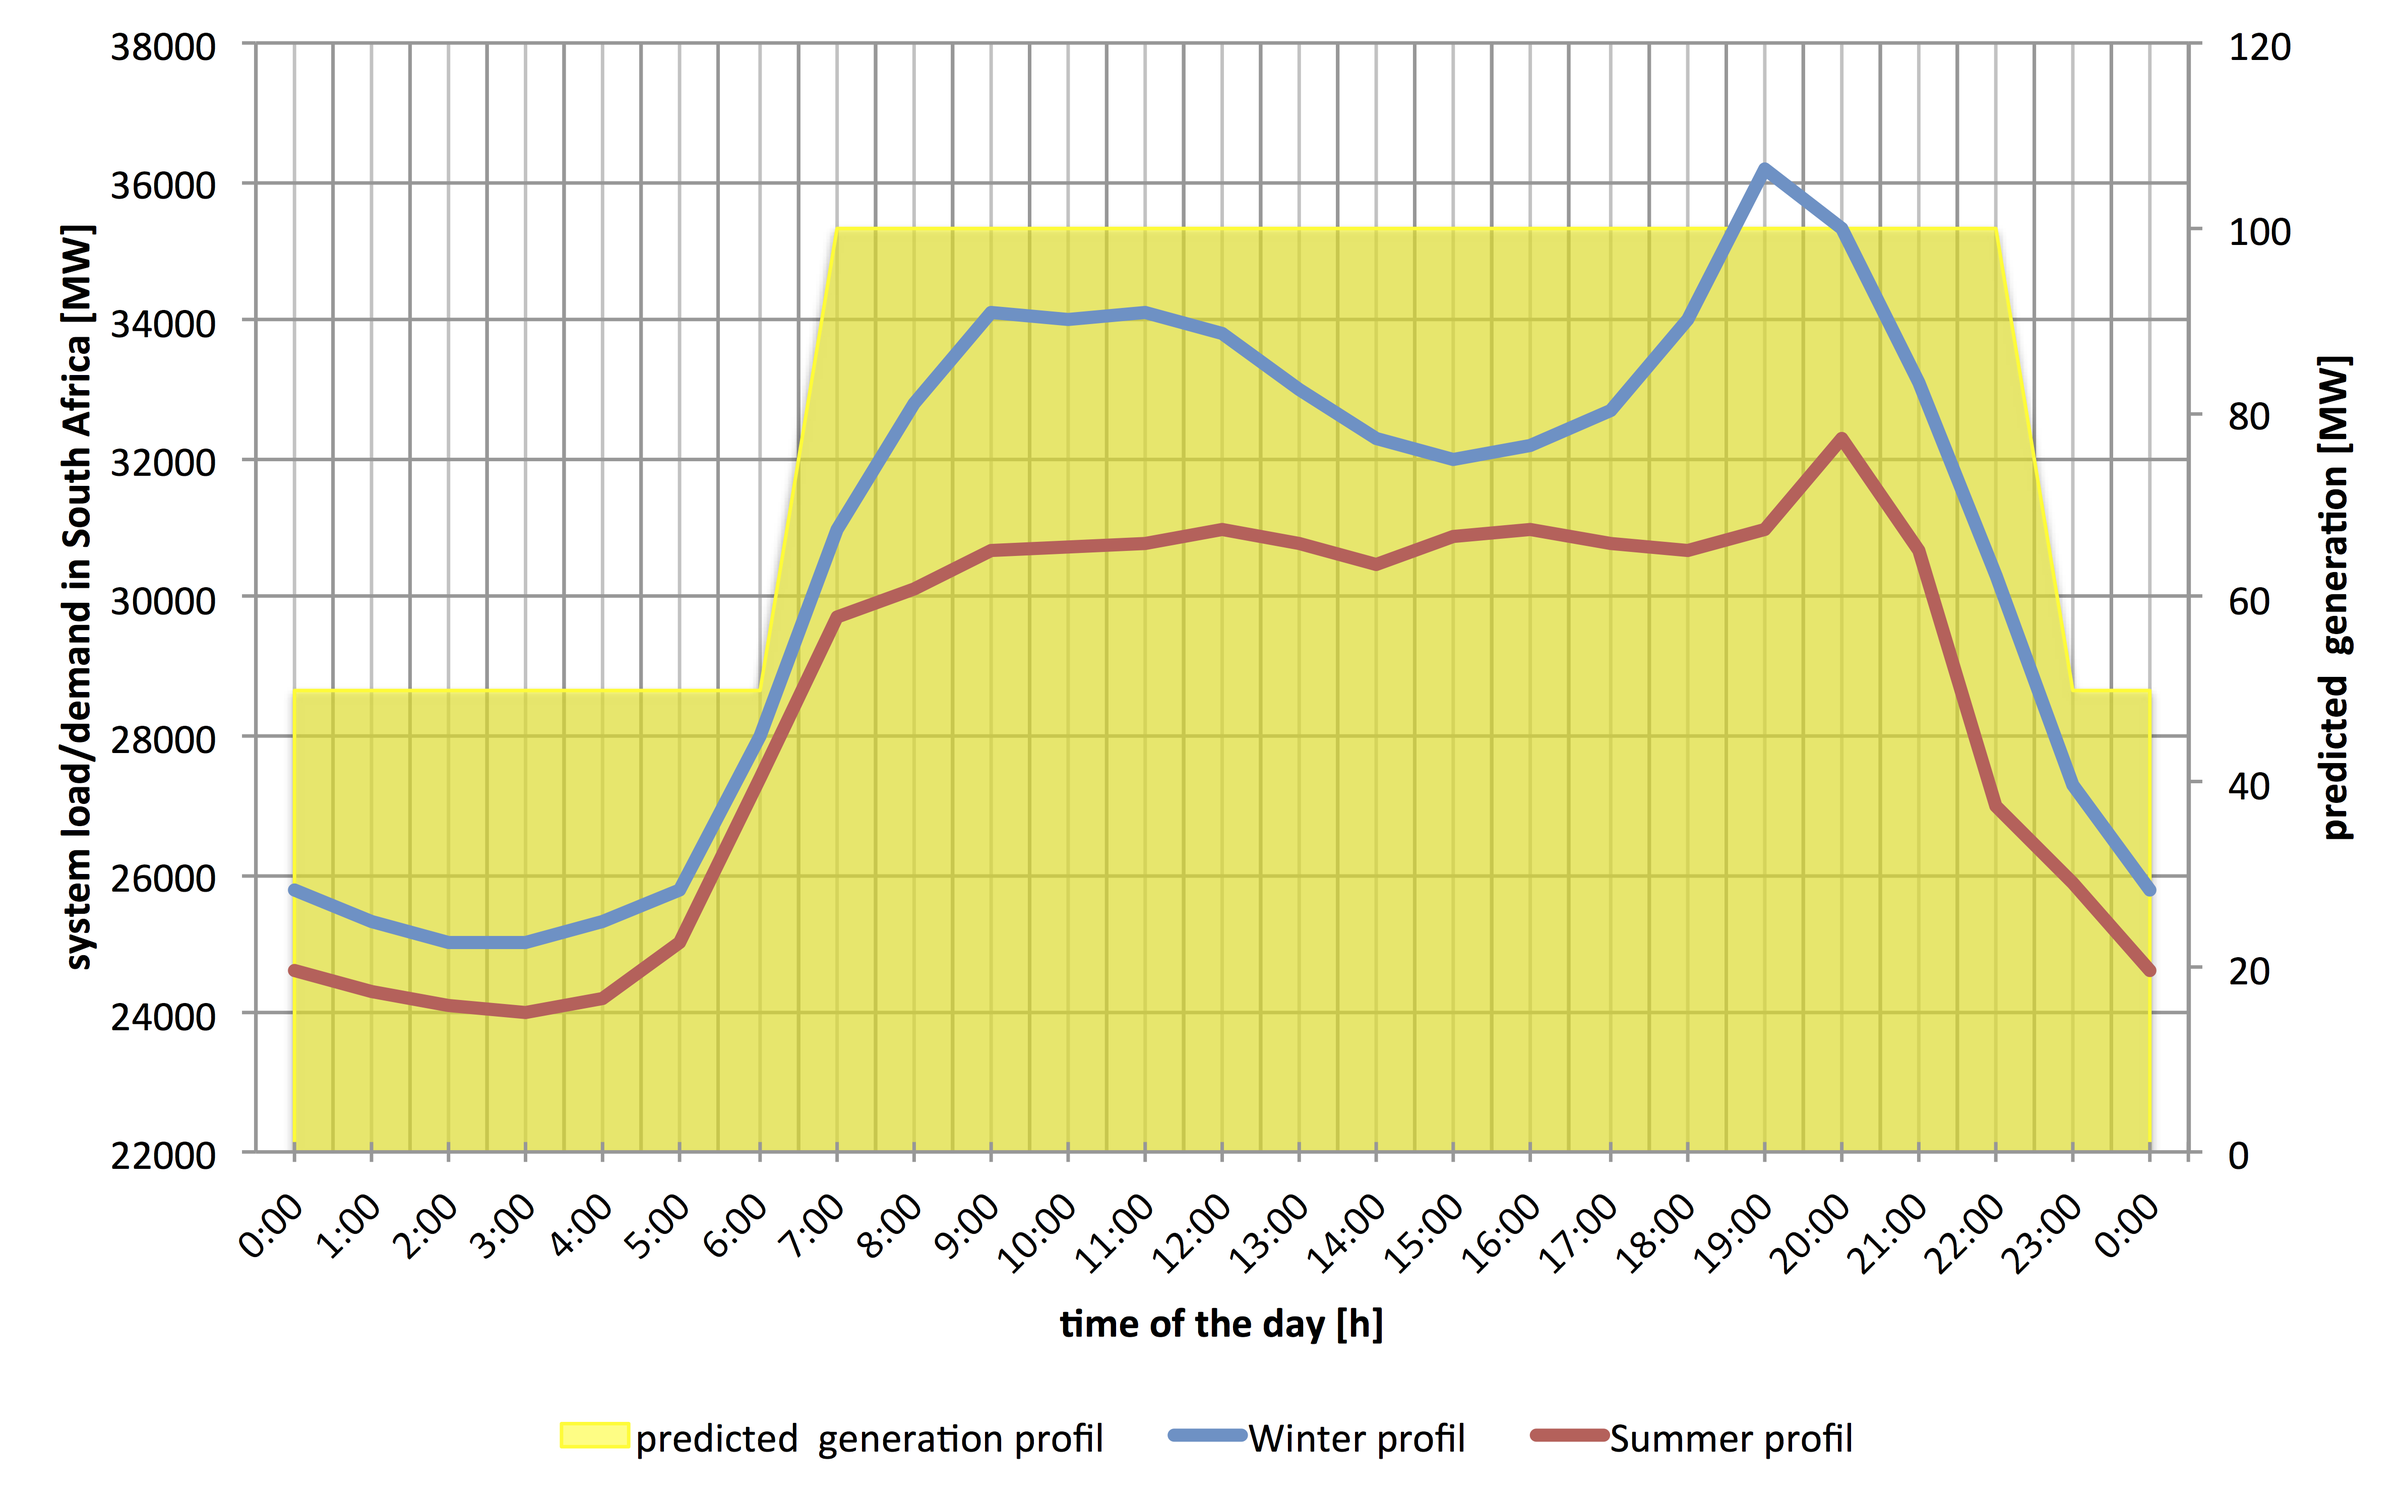
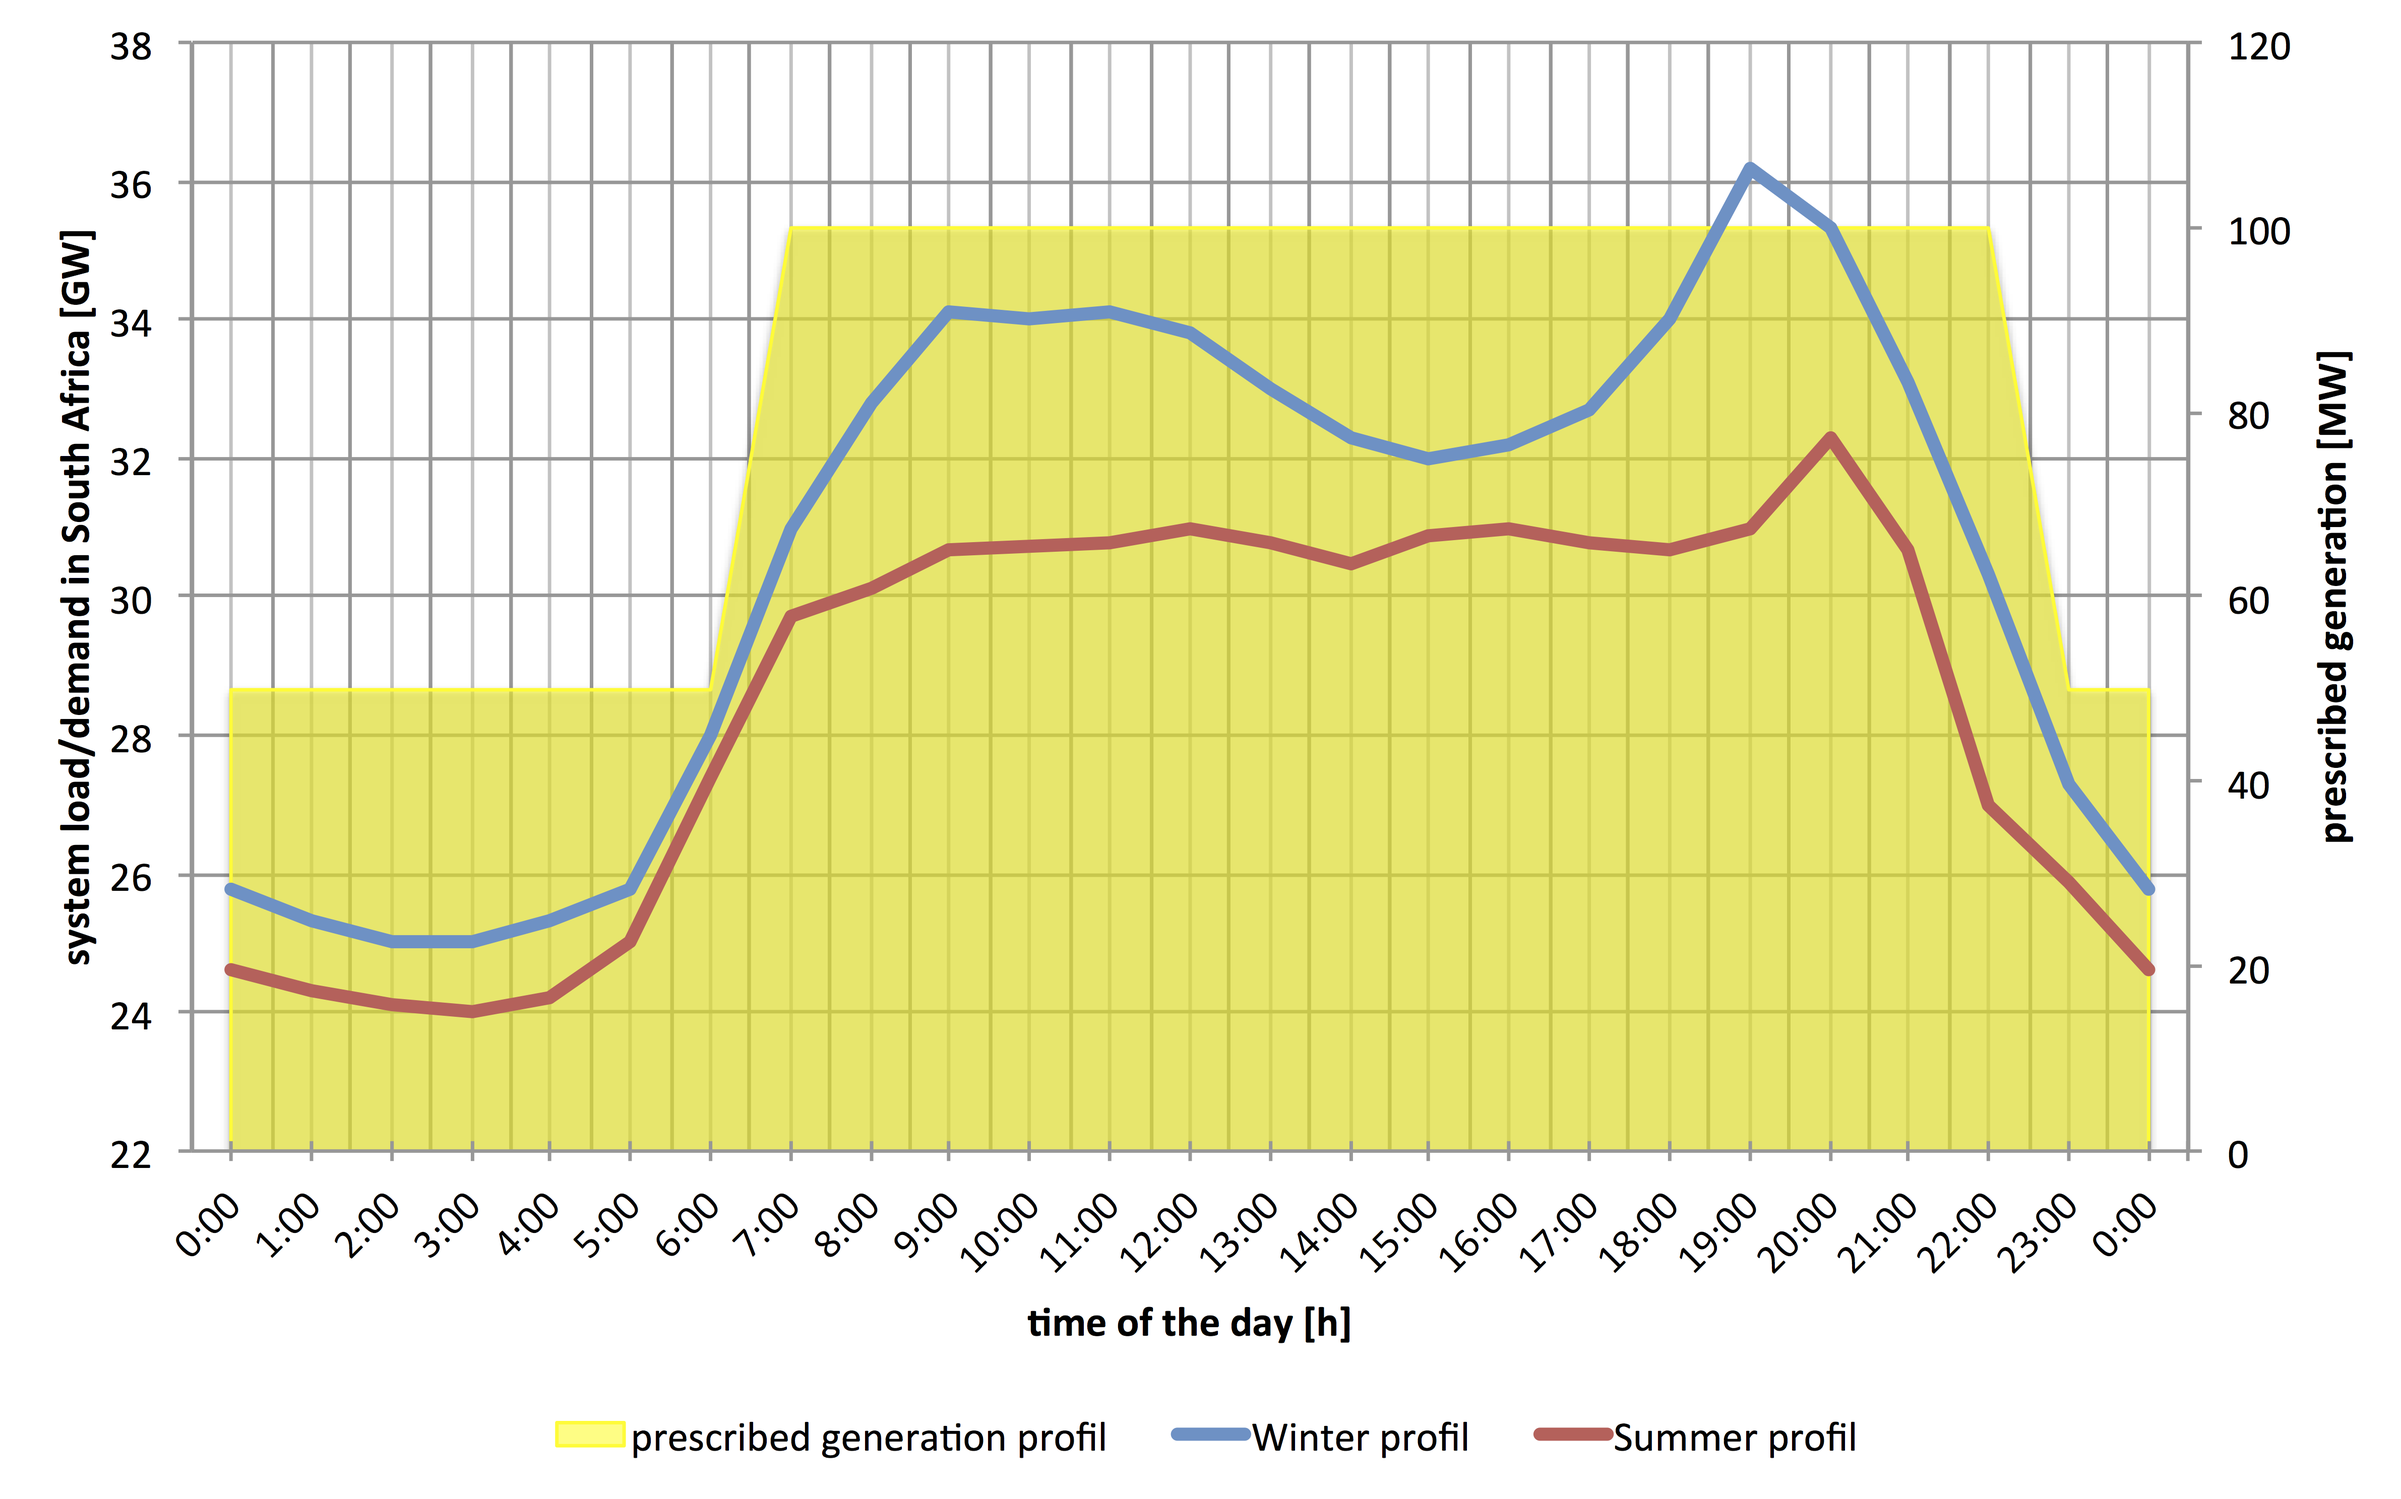
Chapter solar energy in SA abgeschlossen

diff --git a/solar_power_in_sa.tex b/solar_power_in_sa.tex
@@ -110,7 +110,7 @@ Most of the South African PV-power plants are allocated in the Northern Cape. So
 
 "KaXu Solar One" is the first and currently only full operational CSP plant in SA. It is using parabolic trough technology and a 2.5~h thermal energy storage for generating \SI{100}{\mega\watt} capacity. The CSP-plants "Khi Solar One" and "Bokpoort CSP Project" with a capacity of each 50~MW are under construction as well as the \SI{100}{\mega\watt} "Xina CSP South Africa" project. Further three CSP-plants are awaiting construction, they have all a capacity of each \SI{100}{\mega\watt}. As mentioned before, all eight CSP projects are located in the Northern Cape Province of SA. \cite{Forder2015}
 \pagebreak
-\section{System load in SA and predicted solar power generation profil} \label{SystemloadinSA}
+\section{System load in SA and prescribed solar power generation profil} \label{SystemloadinSA}
 The South African supply structure is based on coal-fired thermal power plants, as it was shown in Section~\ref{ElectricitySA} before. But also the renewable energy supply is getting noteworthy for the supply structure in SA. When taking an eye on Figure~\ref{systemload} it can be noted that wind and PV power also makes a small share of the daily electricity supply. It has to be said that by the time of spring in 2014 the KaXu Solar One CSP plant was not completed and so CSP supply in SA doesn't exist. The reveals that the power demand in SA rises in the morning hours and is coming to a peak demand in the evening hours. The surplus energy during the night got compensated by pump storage and reduction by supply imports. 
 
 \begin{figure}[htbp]  
@@ -118,44 +118,42 @@ The South African supply structure is based on coal-fired thermal power plants, 
 \includegraphics[width=1\linewidth]{FIG/systemload}
 \caption[Actual South African supply structure for a spring day, the 17. October 2014.]{Actual South African supply structure for a spring day, the 17. October 2014 \cite{CSIR2015}.}\label{systemload}
 \end{figure}
-It is shown that the PV supply can support the South African demand during the day and reduces thereby the generation of coal-fired thermal power plants. But by the time of the daily peak demand, in the evening hours, the PV supply is coming to standstill, whereby this demand needs to be covered by pumped storage or expansive open cycle gas turbines (OCGT).
+It is shown that the PV supply can support the South African demand during the day and reduces thereby the generation of coal-fired thermal power plants. But by the time of the daily peak demand, in the evening hours, the PV supply is coming to standstill, whereby this demand needs to be covered by pumped storage or expansive diesel driven open cycle gas turbines (OCGTs).
 
-When taking an eye on the load shedding history of the first half year of 2015 in Figure~\ref{Load_shedding} it is obviously that the capacity bottleneck in SA is mostly during the daytime and particularly during the evening peak hours till 22:00. This makes clear at which time the support of new power plants is necessary for a secure electricity supply in SA.
-\pagebreak
+When taking an eye on the total unserved energy due to load shedding history of the first half year of 2015 in Figure~\ref{Load_shedding_sum} it is obviously that the capacity bottleneck in SA is mostly during the daytime and particularly during the evening peak hours till 22:00. This makes clear in which time period the support of new power plants is necessary for a secure electricity supply in SA.
 
 \begin{figure}[htbp]  
 \centering
-\includegraphics[width=1\linewidth]{FIG/Load_shedding}
-\caption[Hourly distribution of actual load shedding from January to June 2015.]{Hourly distribution of actual load shedding from January to June 2015 \cite{CSIREnergyCentre2015}.}\label{Load_shedding}
+\includegraphics[width=1\linewidth]{FIG/Load_shedding_sum}
+\caption[Total unserved energy due to load shedding for all hours per month Jan-Jun 2015 in GWh.]{Total unserved energy due to load shedding for all hours per month Jan-Jun 2015 in GWh \cite{CSIREnergyCentre2015}.}\label{Load_shedding_sum}
 \end{figure}
 It is a  hard requirement that plants meet the full electrical demand in the system. Figure~\ref{LoadScenarios} shows the daily average system load/demand in South Africa for the winter and summer period (2011). It can be seen that the summer profile has a particularly lower demand than the winter profile (up to \SI{15}{\percent} difference) and after a sharp rise at approx 7:00 the demand has a constant system load during the day due to commercial, agricultural and residential demand caused by air-conditioning, pool pumps and geysers, which comes to their peak demand at 20:00. In winter, there is an initial peak at 9:00 and a second at 19:00 mainly caused by residential customers due to electrical heating, lighting, cooking, geysers and pool pumps.
 
 \begin{figure}[htbp]  
 \centering
 \includegraphics[width=1\linewidth]{FIG/LoadScenarios}
-\caption[South Africa daily average system load/demand for summer and winter days, with scheduled power production curve.]{South Africa daily average system load/demand for summer and winter days, with scheduled power production curve.}\label{LoadScenarios}
+\caption[South Africa daily average system load/demand for summer and winter days, with prescribed generation profile.]{South Africa daily average system load/demand for summer and winter days, with prescribed generation profile.}\label{LoadScenarios}
 \end{figure}
 
 Considering the system load, the supply structure and the point of time by load shedding it is unequivocally that the South African power supply needs adjustable power plants which can support the demand during the evening hours till 22:00 in particular. 
 
-\pagebreak
-In order to match this system load, the simulated solar power plants must operate at full power output of \SI{100}{MW} from 7:00 to 22:00. When the system demand drops during the night, the plants reduce there output from 22:00 to 7:00 to \SI{50}{MW}. The scenario is called "night reduction".
+In order to support the South African power supply were it is needed, the for the comparison selected solar power plants are forced to cover a prescribed generation profile. The solar power plants must operate at full power output of \SI{100}{\mega\watt} from 7:00 to 22:00. When the system demand drops during the night, the plants reduce there output from 22:00 to 7:00 to \SI{50}{\mega\watt}. At a covering of \SI{100}{\percent} of the prescribed generation the solar power plants would produce \SI{711.75}{\giga\watt\hour} per year.
 
-In this comparison, the system design must handle 90~\% of the scheduled electricity production over the first year. Usually, in feed-in contracts, the deliverable energy is fixed. Any overproduction is not covered by such contracts and is not remunerated. In order to generate exploitable and comparable results and considering standard feed-in contracts, the hourly power production is cut to the planned values and thus overproduction is not considered in this analysis.
+With consideration to solar energy is depending on weather and seasonal conditions the individual system design must handle \SI{90}{\percent} of the prescribed generation profile and with regard to the PV system whose module efficiency deteriorates over there lifetime it is just defined for the first year of the plants. It signifies that the power plants are forced to produce more than \SI{640575}{\mega\watt\hour} in the first year.
 
-%The results of the simulated scenarios and the financial analyses will be rated in two selected categories:
-The results of the simulation and the financial analyses will be evaluated by the following quantitative measures:
+Usually, in feed-in contracts, the deliverable maximum net power output of power plants is fixed. Any overproduction is not covered by such contracts and is not remunerated. In order to generate exploitable and comparable results and considering standard feed-in contracts, the hourly power production is cut to the planned values and thus overproduction is not considered in this analysis.
+
+The results of the solar power plant simulations will therefore evaluated and compared by the following quantitative measures:
 \begin{itemize}
-%\item \textbf{Load curve covering factor} [\%]: The Load curve covering factor (LCCF) describes quantitative how effective the power plant follows the required load curve of the scenarios.
-\item \textbf{Load curve covering factor} [\%]: The load curve covering factor (LCCF) is an effectiveness measure describing how closely the plant follows the load curve.
-%\item \textbf{Levelized cost of electricity} [\textcent /kWh]: The levelized cost of electricity (LCOE) represents the total project lifecycle costs. It is the present value of project costs expressed in cents per kilo-hour of electricity generated by the system over its life. \cite{NREL2015a}
-\item \textbf{Levelized cost of electricity} [\textcent /kWh]: The levelized cost of electricity (LCOE) represents the total project life-cycle costs. It is the present value of project costs expressed in cents per kilowatt-hour of electricity generated by the system over its life. \cite{NREL2015a}
+\item \textbf{Generation curve covering} [\si{\percent}]: The generation curve covering (GCC) is an effectiveness measure describing how closely the plant follows the prescribed generation curve over the full year. It is defined as:
+
+\begin{equation}
+\mbox{GCC} = \sum\limits_{t=1}^{8760} \frac{\mbox{prescribed generation at }t\mbox{ in MW}}{\mbox{actual plant net output at }t\mbox{ in MW}} \label{GL_GCC}
+\end{equation} 
+
+\item \textbf{Levelized cost of electricity} [USD/\si{\mega\watt\hour}]: The levelized cost of electricity (LCOE) represents the total project life-cycle costs. It is the present value of project costs expressed in USD per megawatt-hour of electricity generated by the system over its life.
 \end{itemize}
-%There is a huge difference between the mentioned LCCF and the widespread capacity factor (CF). The CF is the ratio of the system's predicted electrical output in the first year of operation to the nameplate output, which is equivalent to the quantity of energy the system would generate if it operated at its nameplate capacity for every hour of the year \cite{NREL2015a}. As it is mentioned above is the LCCF calculated from the sum value of load covering in each hour of the year.
-There is an important difference between the LCCF and the widely-used \emph{capacity factor} (CF). The CF is the ratio of the system's electrical output in the first year of operation to the nameplate output, which is equivalent to the quantity of energy the system would generate if it operated at its nameplate capacity for every hour of the year \cite{NREL2015a}. The LCCF is calculated from the sum value of load coverage in each hour of the year. At a covering of 100~\% of the predicted load the solar power plants would produce \SI{711.75}{GWh} per year. But at a 100~\% CF the solar power plants would need to produce \SI{876.00}{GWh} per year. Therefore is in the selected scenario a maximum CF of just 81.25~\% with a full covering of the predicted load possible.
+These performance and financial parameter are the only releavant indicator for the evaluation in this thesis, other indicators can be seen as supplement. 
 
-
-
+It must be noted, that there is an important difference between the GCC and the widely-used \emph{capacity factor} (CF). The CF is the ratio of the system's electrical net output in the first year of operation to the nameplate output (CSP) or peak output (PV), which is equivalent to the quantity of energy the system would generate if it operated at its nameplate capacity for every hour of the year \cite{NREL2015a}. The GCC is calculated from the sum value of prescribed generation coverage in each hour of the year. 
 \pagebreak 
-
-

diff --git a/abbreviations.tex b/abbreviations.tex
@@ -36,7 +36,7 @@
     \acro{MWh}[MWh]{megawatt hour}
     \acro{NCA}[NCA]{Nickel Cobalt Aluminum}
     \acro{NERSA}[NERSA]{National Energy Regulator of South Africa}
-    \acro{OCGT}[OCGT]{open cycle gas turbine}
+    \acro{OCGTs}[OCGTs]{open cycle gas turbines}
     \acro{PCS}[PCS]{power conversions system}
     \acro{PSP}[PSP]{pumped storage plants}
     \acro{PT}[PT]{parabolic trough}
